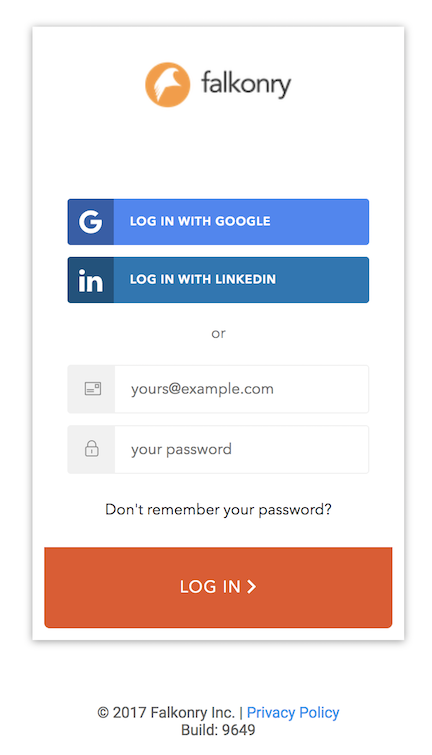
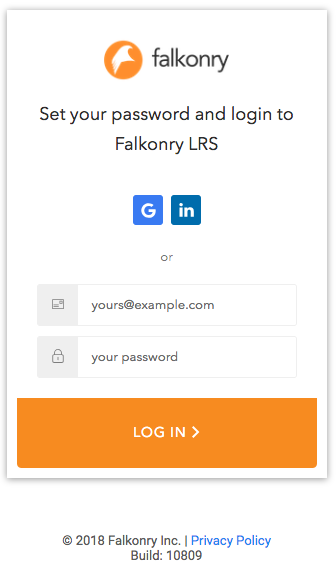
Updating the signup images

diff --git a/docs/account/index.rst b/docs/account/index.rst
@@ -13,7 +13,7 @@ Account and User Management
 Invited Falkonry Account Setup
 -------------------------------
 
-Only the user who receives a personalized Falkonry email invite from Falkonry instance can setup an account on Falkonry.  Do not forward the Falkonry invitation email to others as it will not work for the other recipients.  Once you setup your Falkonry account, as the account administrator, you can invite other team members as users into your Falkonry account.  If necessary, you can also assign other team members to be the administrators of your account.
+Only the user who receives a personalized email invite from Falkonry can setup an account on Falkonry. Do not forward the Falkonry invitation email to others as it will not work for the other recipients. Once you setup your Falkonry account you will assigned an account administrator role, which allowsyou to invite other team members as users into your Falkonry account. If necessary, you can also assign other team members to be the administrators of your account.
 Instructions to invite other team members to your Falkonry account : `Inviting team members <http://help.falkonry.com/en/latest/using/accounts.html>`_
 Falkonry will present the following screen during signup.
 
@@ -22,7 +22,9 @@ Falkonry Cloud instance:
 
 .. image:: images/google_login.png
 
+When using the invitation link (from your email), this form will have you email address pre-populated. All you need to do is to set your password. You must remember the password you set on this screen.
 
+ 
 Falkonry Local instance:
 ^^^^^^^^^^^^^^^^^^^^^^^^^
 
@@ -35,17 +37,13 @@ Once you select *Login with Password* local Falkonry instance will display:
 
 
 During signup you will be asked for the password only once.  Please remember this password for your future logins into Falkonry.  If you use any other email id than where you received Falkonry invite, your signup will not work.
-If Falkonry is not responding after you selected “YES” on *Master Services Agreement*:
-
-.. image:: images/MEA.png
-
 
 In the browser, type the Falkonry service URL supplied to you and signup using your email and a password.  If you still can’t signup, contact Falkonry customer support.
 
 1. You did not receive the email even when the invitation is sent:
 Use Falkonry service URL followed by “/signup” in your browser and signup using the email used in the Falkonry invite and a password.
 
-2. If you still can’t signup, or do not have Falkonry service URL, for a local Falkonry instance contact your Falkonry system administrator.
+2. If you still can’t signup, or do not have Falkonry service URL, for a local Falkonry instance contact your local Falkonry system administrator.
 For Falkonry cloud instance contact Falkonry customer support.
 
 
@@ -121,7 +119,7 @@ If your user account is on your own Falkonry On-Prem installation, only your ins
 On Falkonry’s Cloud Instances
 ^^^^^^^^^^^^^^^^^^^^^^^^^^^^^^
 
-.. image:: images/google_login.png
+.. image:: images/google_login2.png
 
 
 1. On the login page click “Don’t remember your password?” link.
